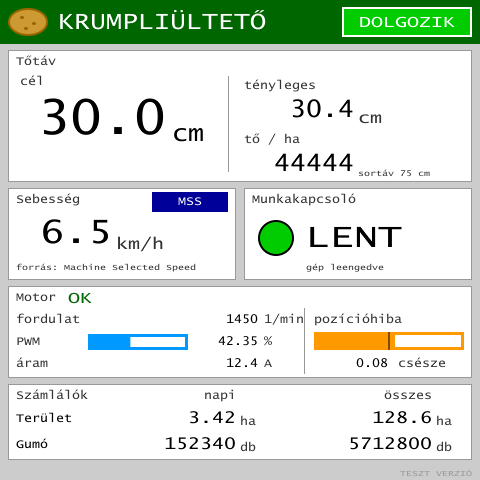
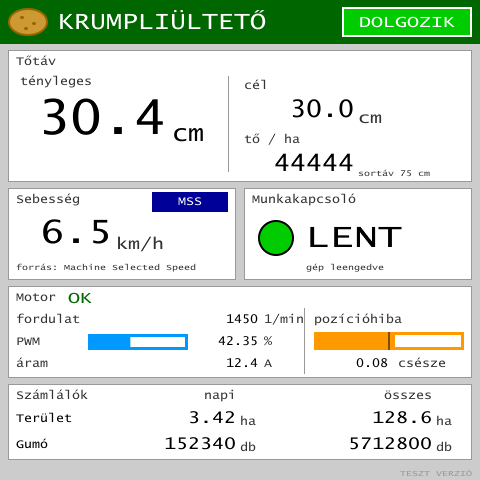
Show actual spacing large and target spacing small

diff --git a/tools/make_pool.py b/tools/make_pool.py
@@ -343,11 +343,11 @@ def build():
     status = p.text(130, 30, "DOLGOZIK", WHITE, F12x16, CENTER | MIDDLE, object_id=OUT_STATUS_TEXT, name="OUT_STATUS_TEXT")
 
     spacing = panel(p, 464, 132, "Tőtáv") + [
-        (p.text(140, 16, "cél", LABEL, F8x12), 12, 24),
-        (p.input_number(IN_TARGET_SPACING, 150, 56, 300, 100, 800, 0.1, 1, F32x48, name="IN_TARGET_SPACING"), 8, 42),
+        (p.text(140, 16, "tényleges", LABEL, F8x12), 12, 24),
+        (p.number(OUT_ACTUAL_SPACING, 150, 56, 304, 0.1, 1, BLACK, F32x48, name="OUT_ACTUAL_SPACING"), 8, 42),
         (p.text(40, 56, "cm", BLACK, F16x24, LEFT | BOTTOM), 164, 40),
-        (p.text(120, 16, "tényleges", LABEL, F8x12), 236, 28),
-        (p.number(OUT_ACTUAL_SPACING, 110, 32, 304, 0.1, 1, BLACK, F16x24, name="OUT_ACTUAL_SPACING"), 236, 44),
+        (p.text(120, 16, "cél", LABEL, F8x12), 236, 28),
+        (p.input_number(IN_TARGET_SPACING, 110, 32, 300, 100, 800, 0.1, 1, F16x24, name="IN_TARGET_SPACING"), 236, 44),
         (p.text(48, 32, "cm", LABEL, F12x16, LEFT | BOTTOM), 350, 44),
         (p.text(120, 16, "tő / ha", LABEL, F8x12), 236, 82),
         (p.number(OUT_SEEDS_PER_HA, 110, 32, 44444, 1, 0, BLACK, F16x24, name="OUT_SEEDS_PER_HA"), 236, 98),

diff --git a/README.md b/README.md
@@ -28,7 +28,7 @@ kódolással (font type 2), így az ő és ű is helyesen jelenik meg. A kijelze
 
 ![Munkaképernyő](render/screen_1000.png)
 
-Cél tőtáv (bevihető), tényleges tőtáv, tő/ha, sebesség és forrása, munkakapcsoló, motor állapot,
+Tényleges tőtáv (nagy számmal), cél tőtáv (bevihető), tő/ha, sebesség és forrása, munkakapcsoló, motor állapot,
 fordulatszám, PWM (0,01 %) és áram (0,1 A) egymás mellett (ha azonos fordulathoz egyre több PWM és
 áram kell, nehezedik a hajtás), pozícióhiba, napi és összes terület és gumószám.
 Softkey-ek: tőtáv +/−, számlálók nullázása, beállítások.
